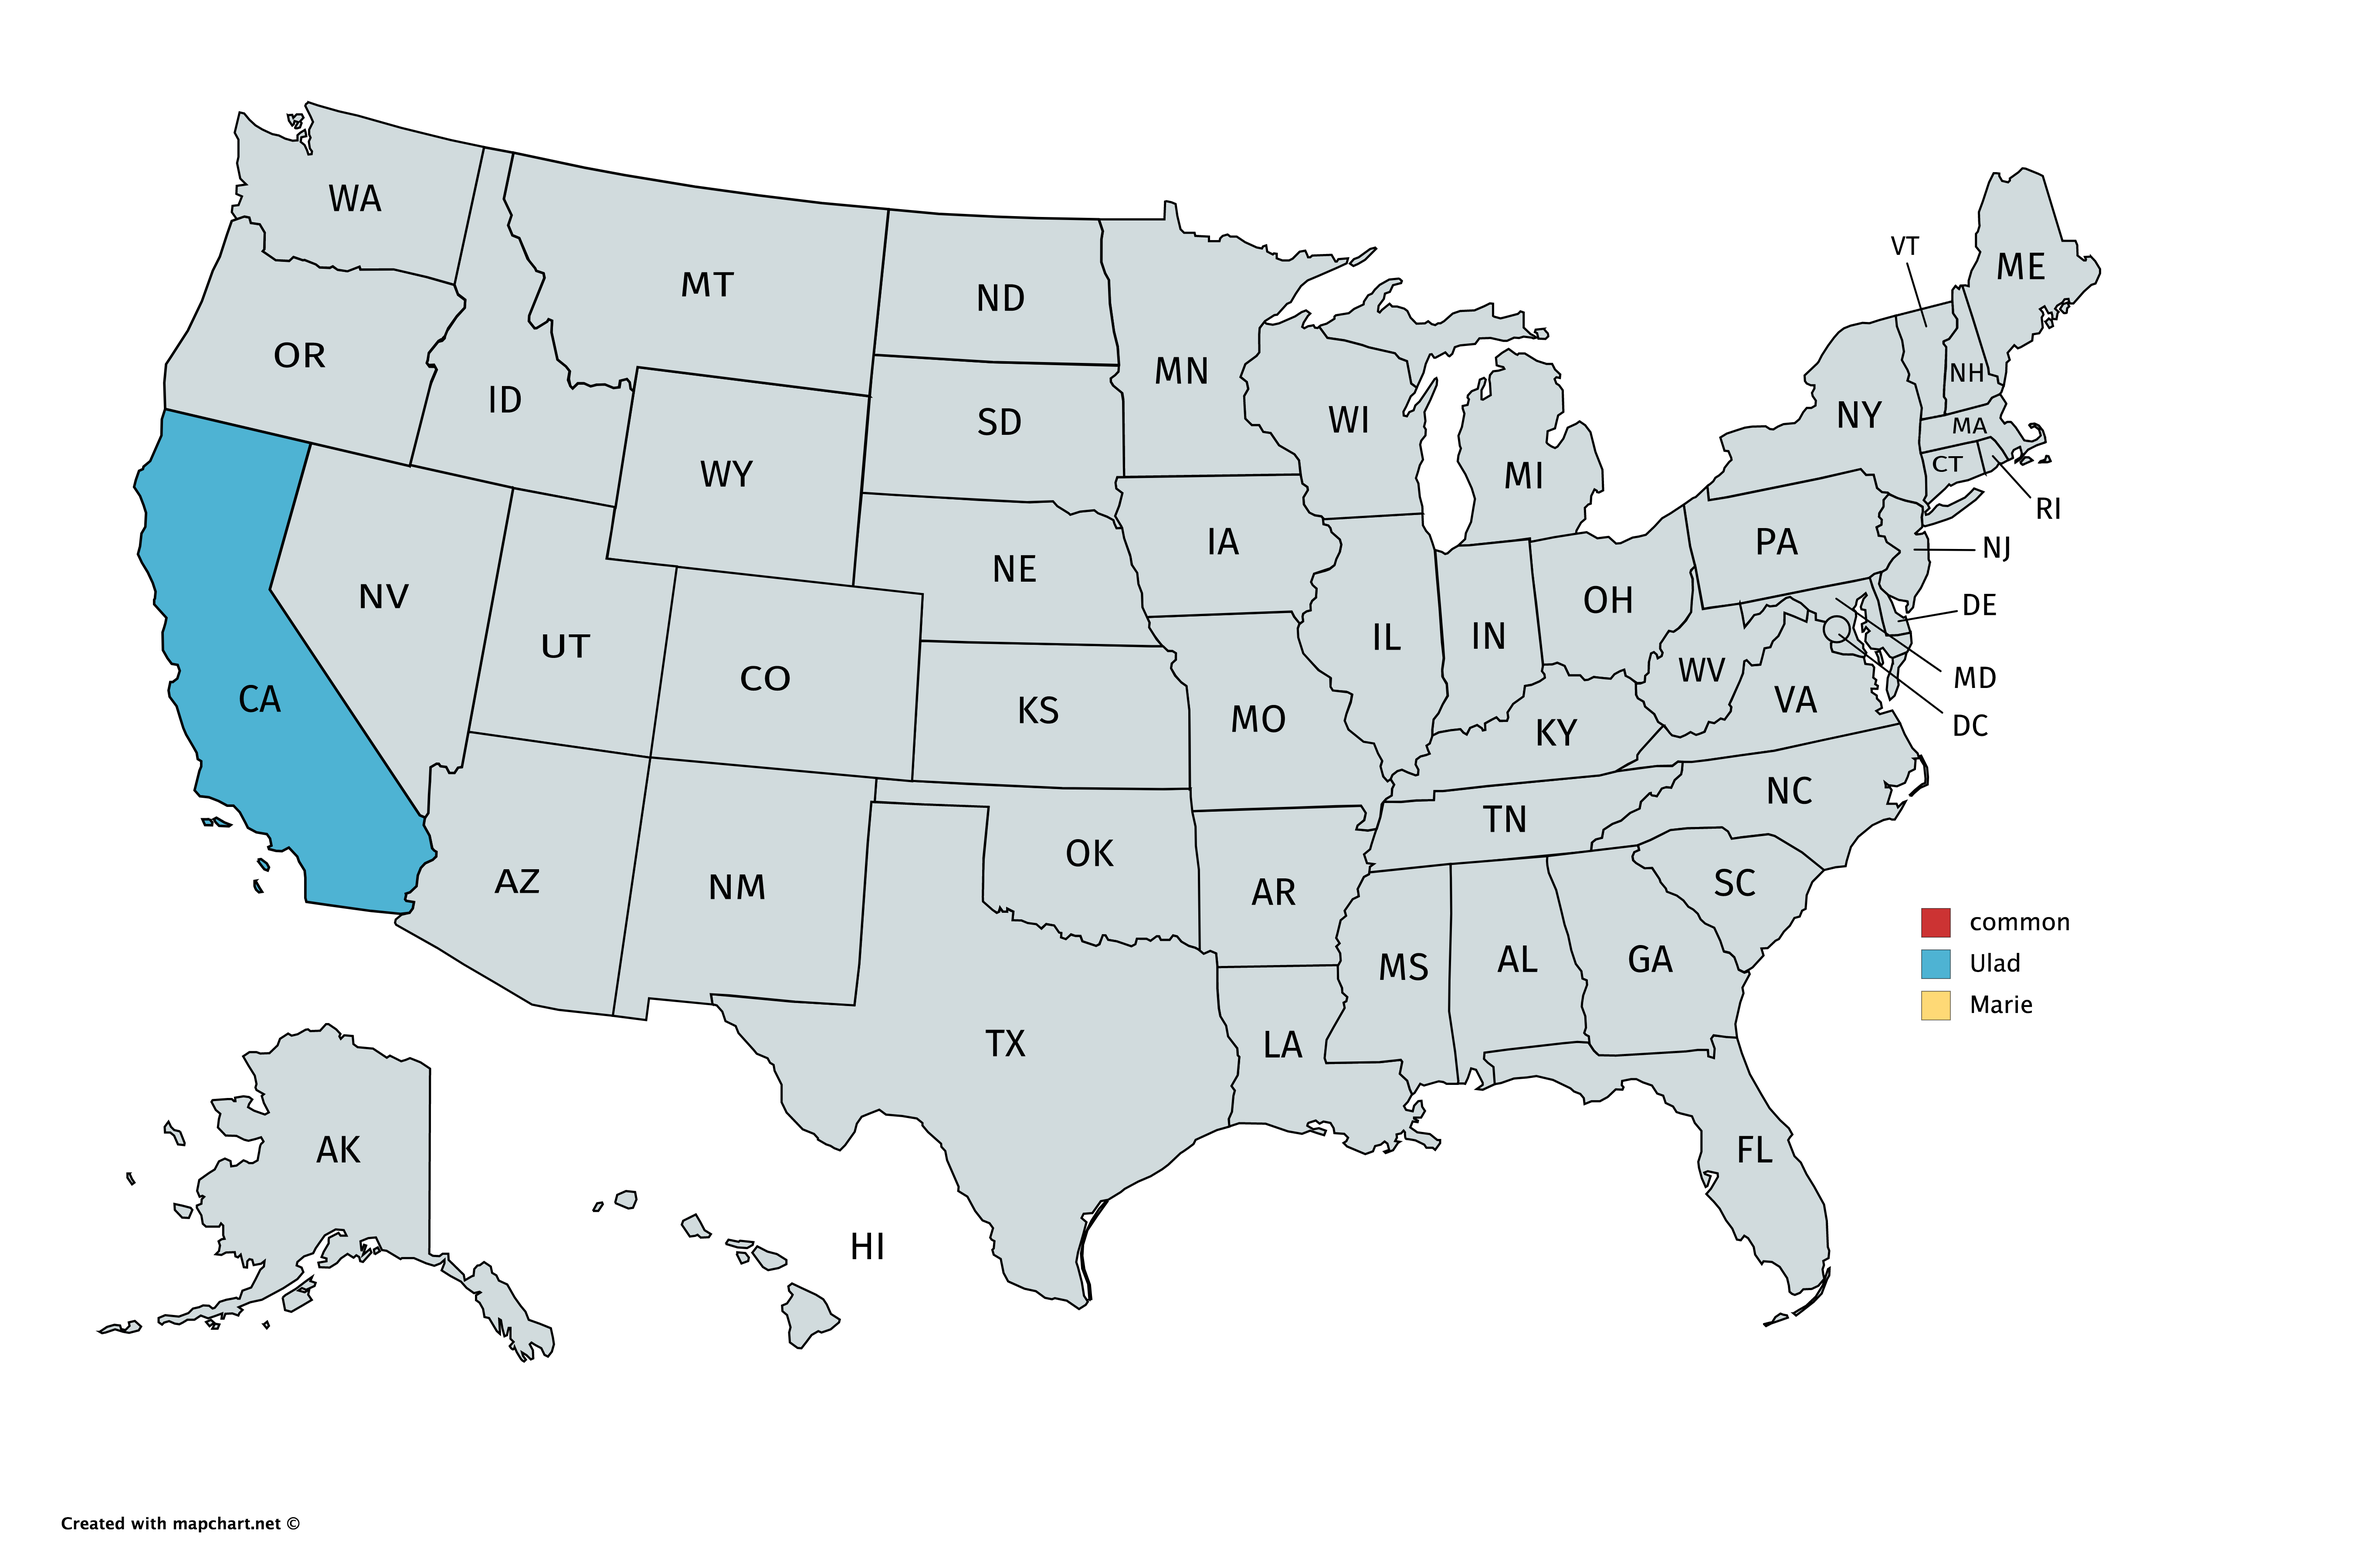
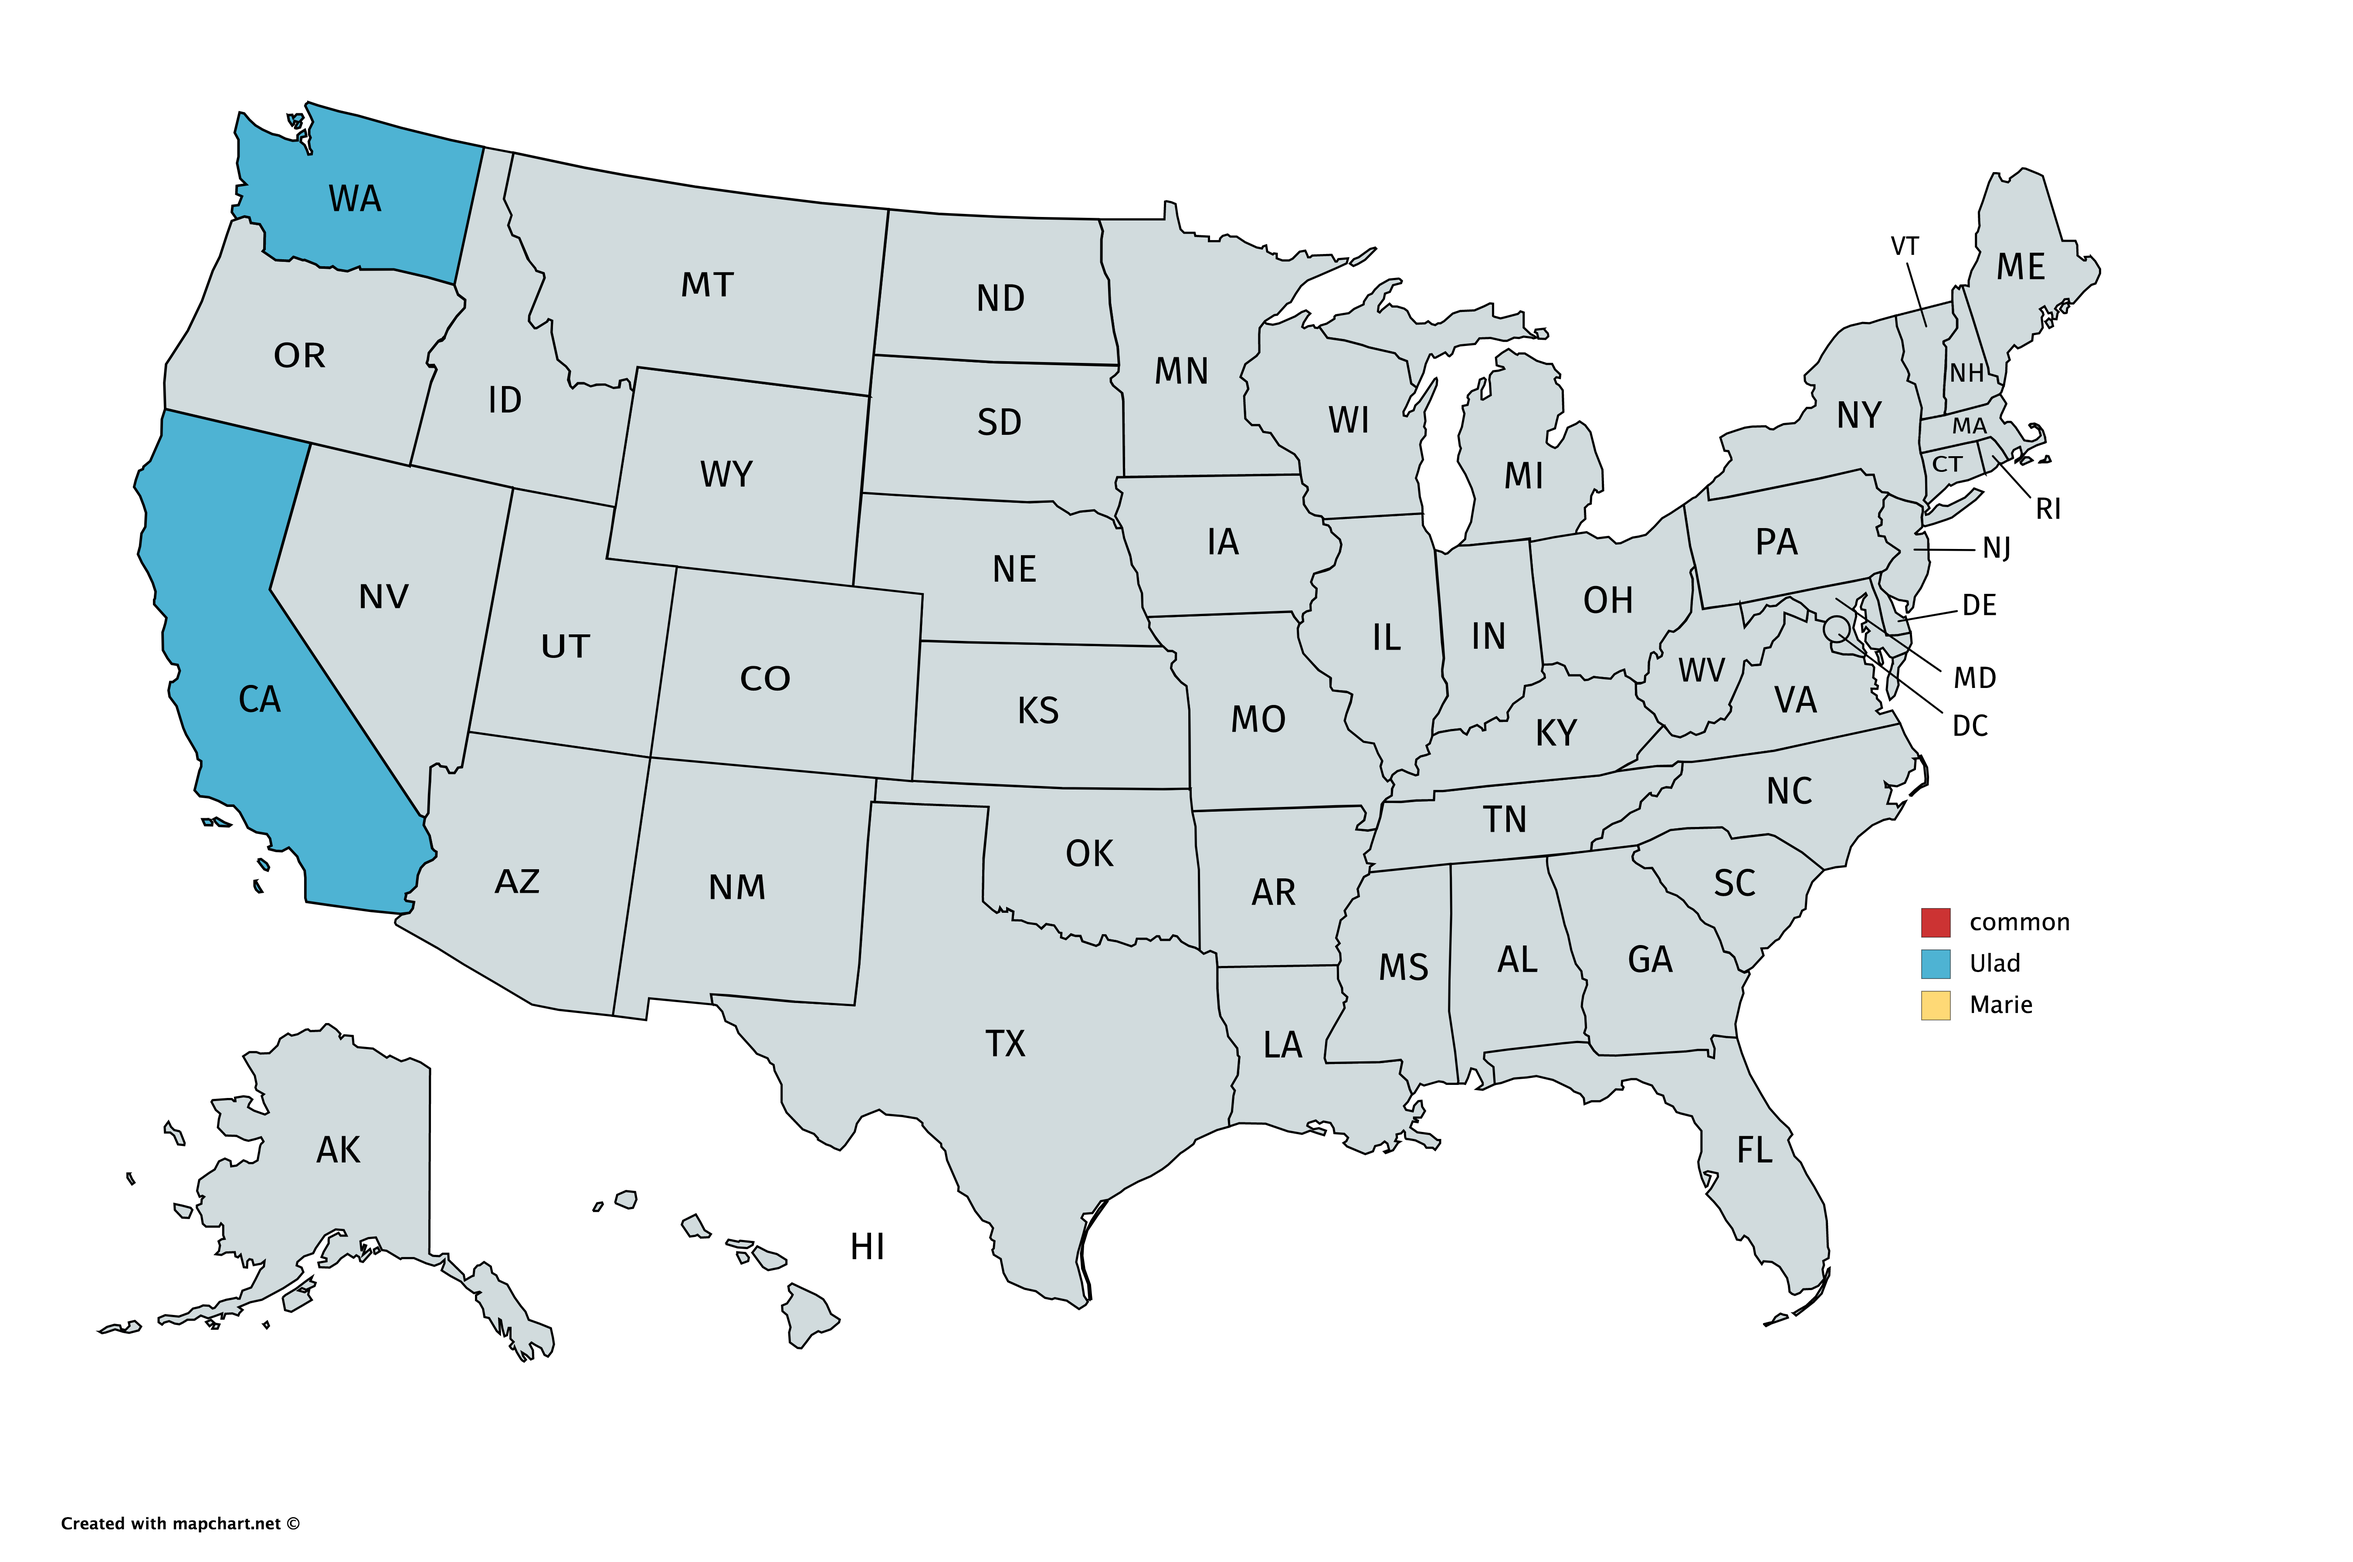
USA (WA) update

Changed region(s): [[0.0933, 0.0625, 0.2178, 0.1874]]

diff --git a/index.html b/index.html
@@ -46,7 +46,7 @@
 		<div class="countries ulad-countries">
 			Велікабрытанія <img class="flag" src="flags-iso/GB.png"><br>
 			Партугалія <img class="flag" src="flags-iso/PT.png"><br>
-			ЗША <img class="flag" src="flags-iso/US.png"> (CA)<br>
+			ЗША <img class="flag" src="flags-iso/US.png"> (CA,WA)<br>
 			<br>
 		</div>
 	</div>
